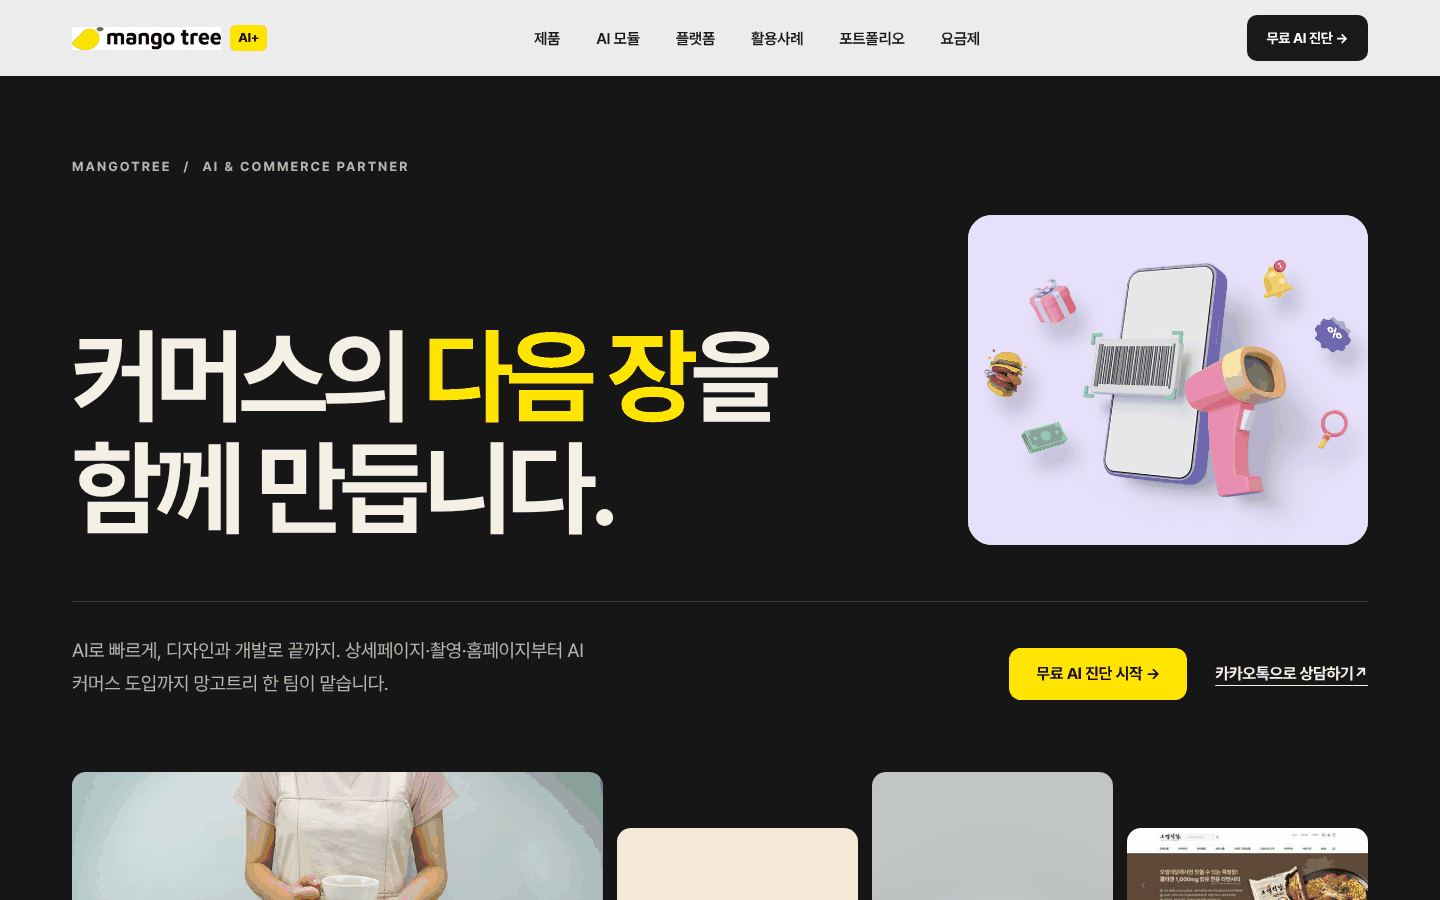
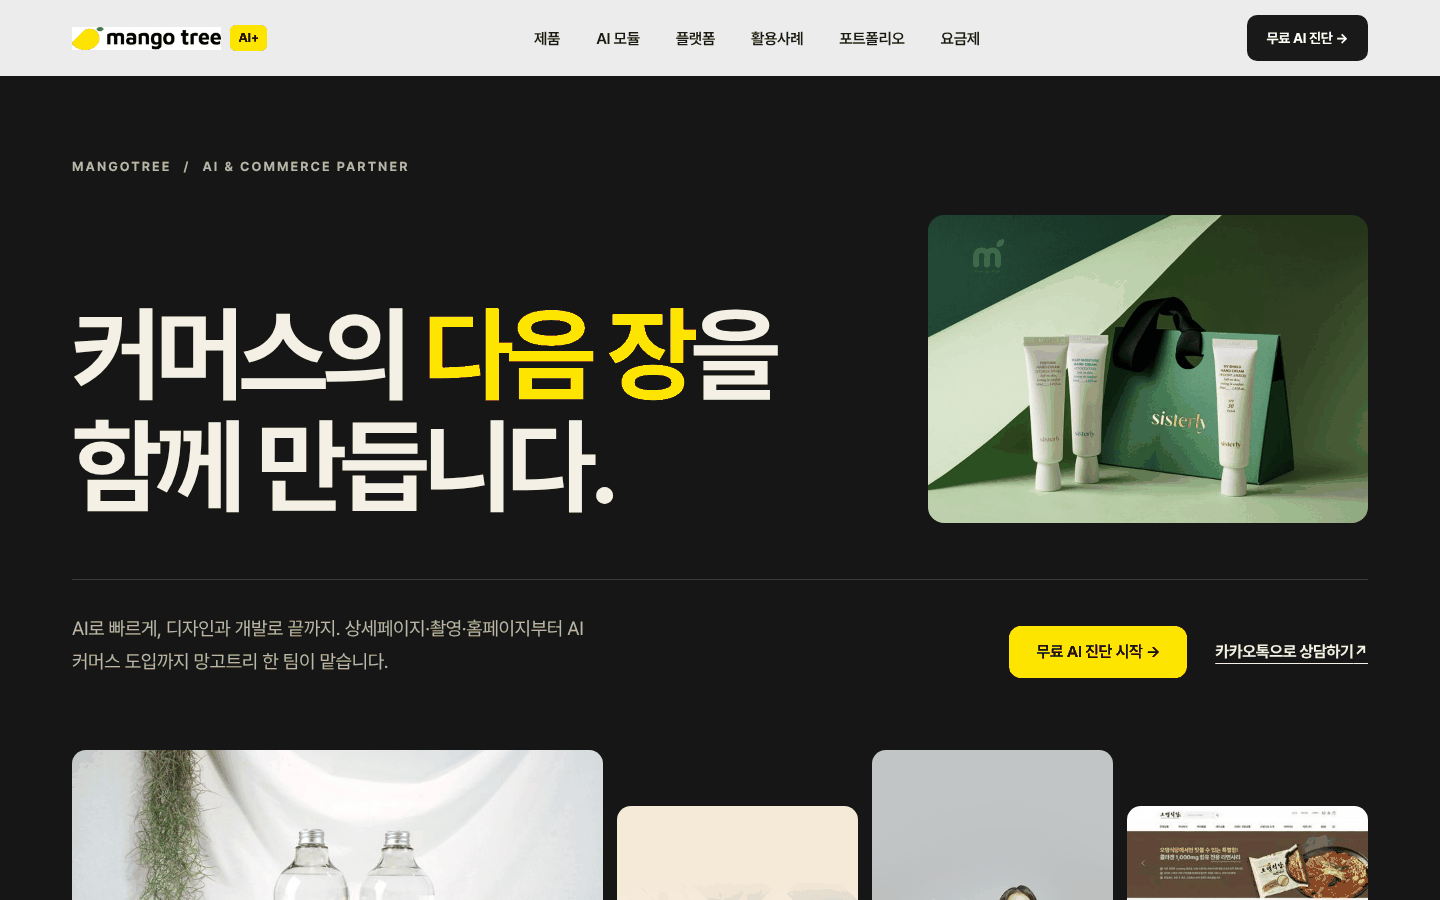
Calm the hero: one real gallery photo instead of the 3D illustration
The hero's right side now shows a single photo from the original site's
gallery (hand cream products and package, 660x462, stored unchanged) at its
own ratio with no crop, so products and the watermark stay intact. The 3D
commerce illustration is removed from the hero and the repo. Sized to sit
below the headline's weight: 440x308 at 1440, up to 520px wide under the
CTA below 1120px, full width on phones. Title, CTA, the product tile and
PageMaker/PageConnect are unchanged.

Claude-Session: https://claude.ai/code/session_013fr5egeuLoPoF5PAHq2igq

diff --git a/assets/home.css b/assets/home.css
@@ -149,20 +149,18 @@
 .h-plat-list .h-plat-name{color:var(--charcoal)}
 .h-plat-list .h-plat-name>span{font-size:15px;color:var(--ivory-ink)}
 
-/* 첫 화면 오른쪽 정적 패널: 원사이트 커머스 배너(1920×620) 원본을 CSS로만 크롭.
-   그림은 원본 가로 약 850~1700px에 모여 있어 그 영역만 보이게 함 */
-.h-hero-grid{display:grid;grid-template-columns:minmax(0,1fr) 400px;grid-template-areas:"label label" "title panel" "foot foot";column-gap:48px;align-items:end}
+/* 첫 화면 오른쪽: 원사이트 갤러리 실제 사진 1장(660×462). 원본 비율을 그대로 유지해
+   상품과 워터마크를 잘라내지 않고, 제목보다 튀지 않는 크기로 여백을 둔다 */
+.h-hero-grid{display:grid;grid-template-columns:minmax(0,1fr) 440px;grid-template-areas:"label label" "title panel" "foot foot";column-gap:64px;align-items:end}
 .h-label{grid-area:label}.h-hero-title{grid-area:title}.h-hero-panel{grid-area:panel}.h-hero-foot{grid-area:foot}
-.h-hero-panel{margin:0;width:400px;height:330px;border-radius:24px;overflow:hidden;background:#E6E0F9}
-.h-hero-panel img{width:100%;height:100%;object-fit:cover;object-position:73% center}
+.h-hero-panel{margin:0;width:100%;aspect-ratio:660/462;border-radius:16px;overflow:hidden;background:#2E5A3C}
+.h-hero-panel img{display:block;width:100%;height:auto}
 @media(max-width:1120px){
   .h-hero-grid{grid-template-columns:minmax(0,1fr);grid-template-areas:"label" "title" "foot" "panel"}
-  .h-hero-panel{width:100%;height:220px;margin-top:40px}
-  .h-hero-panel img{object-position:72% center}
+  .h-hero-panel{max-width:520px;margin-top:40px}
 }
 @media(max-width:560px){
-  .h-hero-panel{height:168px;border-radius:18px;margin-top:28px}
-  .h-hero-panel img{object-position:76% center}
+  .h-hero-panel{max-width:none;border-radius:12px;margin-top:28px}
 }
 /* 검증된 화면이 없는 항목: 브랜드 없는 중립 블록으로 정렬만 맞춤 */
 .h-plat-ph{flex:none;width:112px;aspect-ratio:240/333;border-radius:12px;background:var(--ivory-2);border:1px solid rgba(22,22,22,.08)}

diff --git a/index.html b/index.html
@@ -34,7 +34,7 @@
   <div class="wrap h-hero-grid">
     <p class="h-label"><span>MANGOTREE</span><span aria-hidden="true">/</span><span>AI &amp; COMMERCE PARTNER</span></p>
     <h1 class="h-hero-title" id="hHeroTitle">커머스의 <em>다음 장</em>을<br>함께 만듭니다.</h1>
-    <figure class="h-hero-panel"><img src="assets/work/commerce-scan-banner.jpg" alt="모바일 기기와 바코드 스캐너로 표현한 커머스 서비스 일러스트" width="1920" height="620"></figure>
+    <figure class="h-hero-panel"><img src="assets/work/gallery-handcream-package.jpg" alt="녹색 배경에 연출한 핸드크림 제품과 패키지 촬영" width="660" height="462" fetchpriority="high"></figure>
     <div class="h-hero-foot">
       <p class="h-hero-sub">AI로 빠르게, 디자인과 개발로 끝까지. 상세페이지·촬영·홈페이지부터 AI 커머스 도입까지 망고트리 한 팀이 맡습니다.</p>
       <div class="h-hero-cta">
